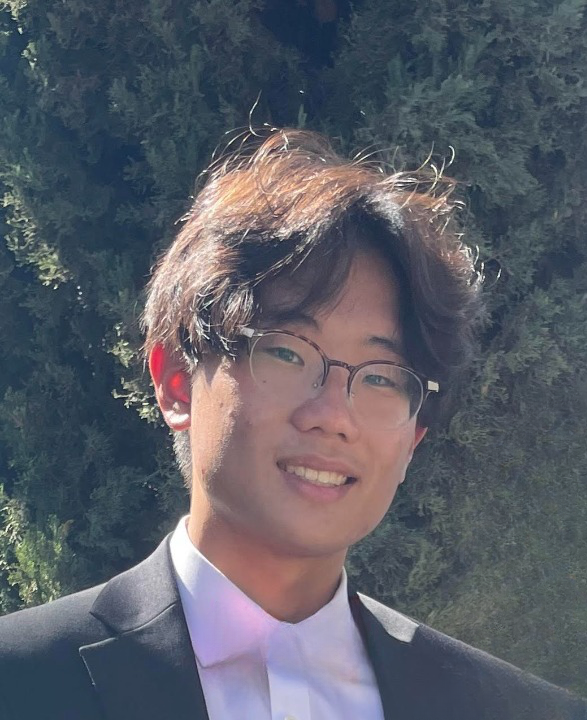
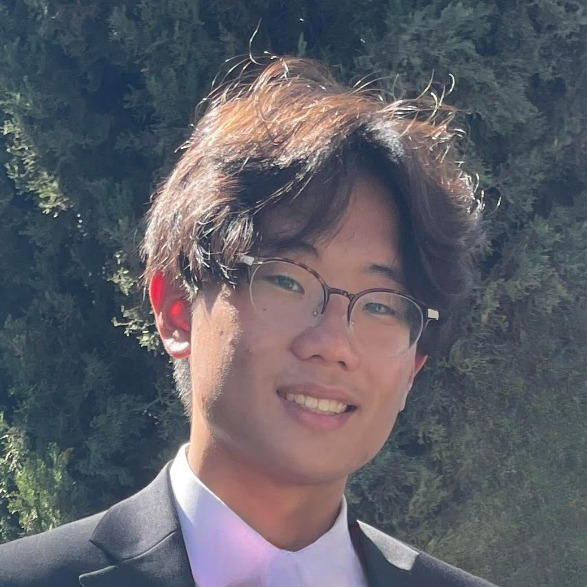
update headshot

diff --git a/src/components/MainContent.js b/src/components/MainContent.js
@@ -110,7 +110,7 @@ function MainContent() {
         </div>
         <div className="text-avatar-container2">
           <div className="avatar-container2">
-            <img src="/profile.png" alt="Eric's avatar" />
+            <img src="/headshotPFP.jpg" alt="Eric's avatar" />
           </div>
           <div className="text-container2">
             <h2>about me</h2>

diff --git a/src/App.css b/src/App.css
@@ -149,7 +149,6 @@ footer {
 
 .avatar-container2 img {
   max-width: 60%; /* Responsive image */
-  max-height: 60%;
   height: auto;
   border-radius: 200px;
   background-color: white;
